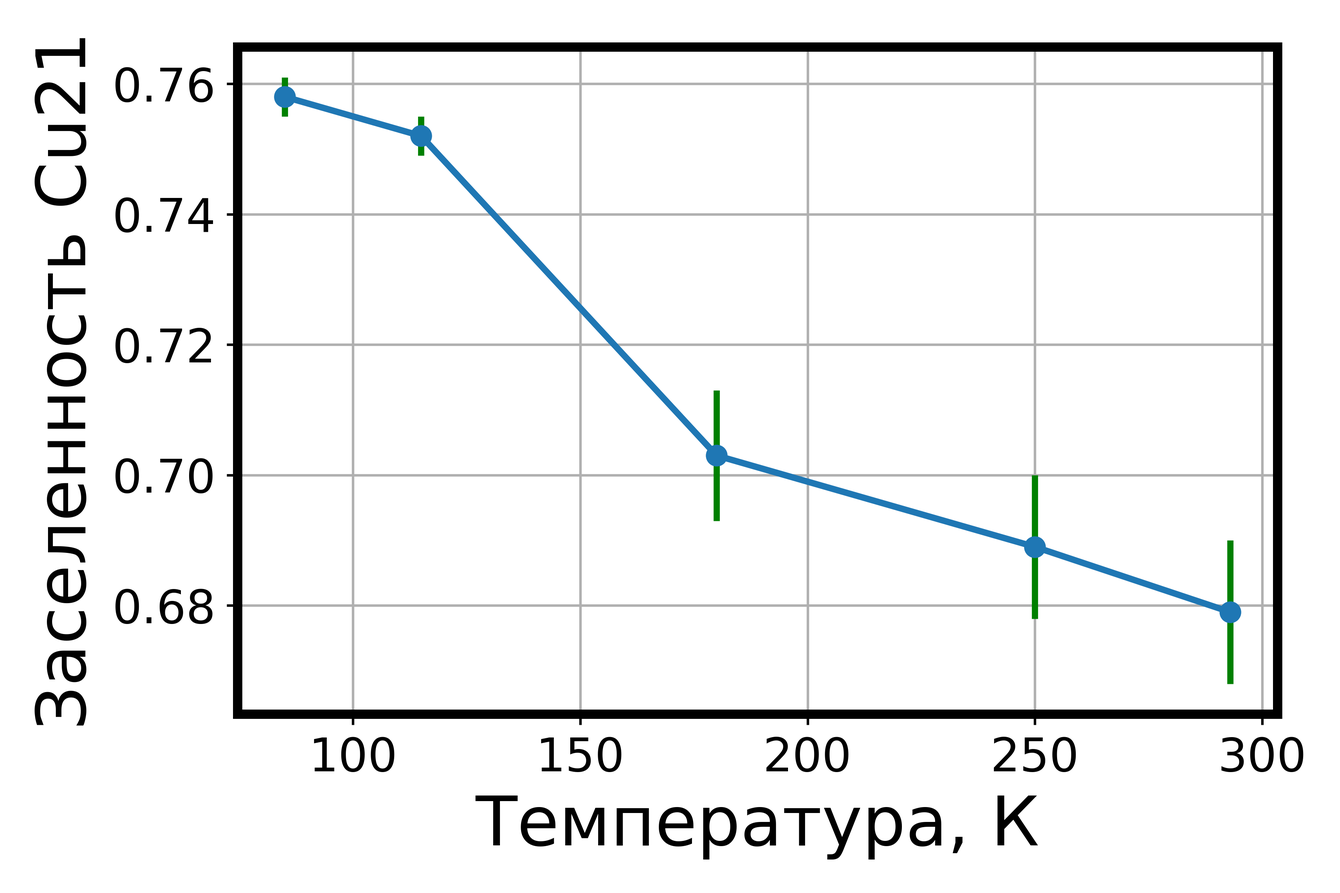
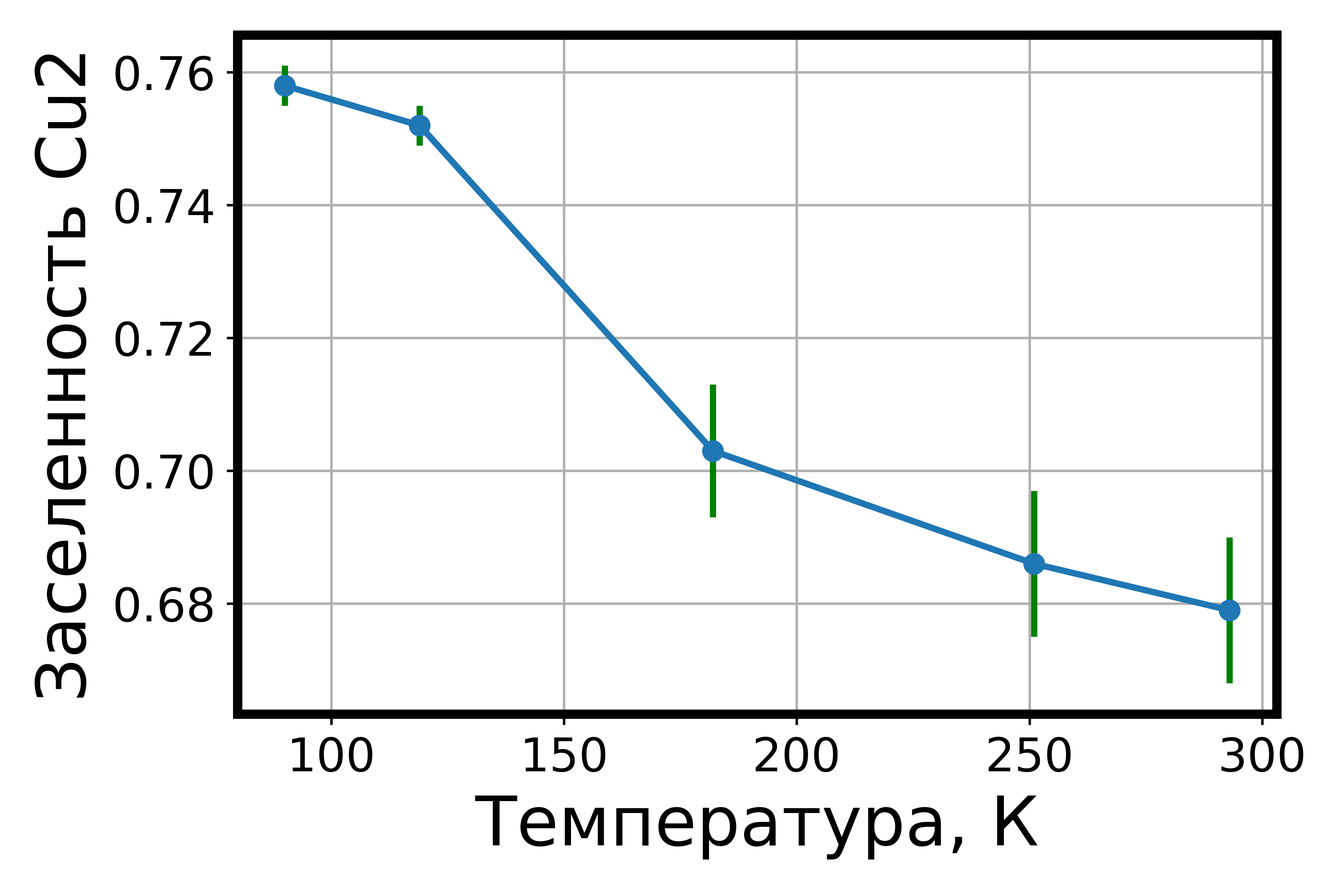
fix temperatures

diff --git a/Dissertation/part3.tex b/Dissertation/part3.tex
@@ -1,23 +1,23 @@
 \chapter{Особенности формирования лавесовского полиэдра на примере синтетического теннантита Cu\textsubscript{12}As\textsubscript{4}S\textsubscript{13}} \label{chapt3}
 
-В данной главе описаны результаты исследования монокристаллического образца синтетического теннантита Cu\textsubscript{12}As\textsubscript{4}S\textsubscript{13} методами монокристальной дифрактометрии в диапазоне температур от 85 до 293~К, просвечивающей электронной микроскопии монокристаллического образца в плоскости (011) и моделирования структур теннантита с разным расположением атомов в лавесовском полиэдре методом первопринципных расчётов.
+В данной главе описаны результаты исследования монокристаллического образца синтетического теннантита Cu\textsubscript{12}As\textsubscript{4}S\textsubscript{13} методами монокристальной дифрактометрии в диапазоне температур от 90 до 293~К, просвечивающей электронной микроскопии монокристаллического образца в плоскости (011) и моделирования структур теннантита с разным расположением атомов в лавесовском полиэдре методом первопринципных расчётов.
 
 
 
-\section{Рентгеноструктурный анализ синтетического теннантита Cu\textsubscript{12}As\textsubscript{4}S\textsubscript{13} в диапазоне температур от 85 до 293~К} \label{sect3_1}
+\section{Рентгеноструктурный анализ синтетического теннантита Cu\textsubscript{12}As\textsubscript{4}S\textsubscript{13} в диапазоне температур от 90 до 293~К} \label{sect3_1}
 
-Исследование монокристаллического образца  Cu\textsubscript{12}As\textsubscript{4}S\textsubscript{13} проведено при температурах 85, 115, 180, 250 и 293~К. Образец обладал сложной формой с линейными размерами от 100 до 300~мкм и являлся сколом от монокристалла.  Результаты дифракционных экспериментов при разных температурах представлены в таблице~\ref{xray1}. С понижением температуры объём элементарной ячейки ожидаемо уменьшается и возрастает значение R-фактора.
-Также с~понижением температуры возрастает заселенность позиции Cu2 (pис.~\ref{img:xray}a) и  наблюдается аномальное изменение значения коэффициента атомарного смещения для позиции S2 (pис.~\ref{img:xray}б), которое показывает наличие фазового перехода второго рода в диапазоне от 115 до 180 К.
+Исследование монокристаллического образца  Cu\textsubscript{12}As\textsubscript{4}S\textsubscript{13} проведено при температурах 90, 119, 182, 251, 293~К. Образец обладал сложной формой с линейными размерами от 100 до 300~мкм и являлся сколом от монокристалла.  Результаты дифракционных экспериментов при разных температурах представлены в таблице~\ref{xray1}. С понижением температуры объём элементарной ячейки ожидаемо уменьшается и возрастает значение R-фактора.
+Также с~понижением температуры возрастает заселенность позиции Cu2 (pис.~\ref{img:xray}a) и  наблюдается аномальное изменение значения коэффициента атомарного смещения для позиции S2 (pис.~\ref{img:xray}б), которое показывает наличие фазового перехода второго рода в диапазоне от 119 до 182 К.
 
 \begin{landscape}
 \begin{table} [htbp]
 \centering
-\caption{Сводная таблица данных рентгеноструктурных исследований для синтетического теннантита Cu\textsubscript{12}As\textsubscript{4}S\textsubscript{13} при температурах 85, 115, 180, 250 и 293~К}%
+\caption{Сводная таблица данных рентгеноструктурных исследований для синтетического теннантита Cu\textsubscript{12}As\textsubscript{4}S\textsubscript{13} при температурах 90, 119, 182, 251 и 293~К}%
 	\label{xray1}% label всегда желательно идти после caption
     \renewcommand{\arraystretch}{1.5}
 	\begin{tabular}{@{}@{\extracolsep{20pt}}llllll@{}}
  \toprule     %%% верхняя линейка
-T, K                       & 85          & 115         & 180         & 250         & 293         \\
+T, K                       & 90          & 119         & 182         & 251         & 293         \\
    \midrule
 a, $\angstrom$                       & 10.1439(2)  & 10.1446(2)  & 10.1463(2)  & 10.1523(2)  & 10.1572(2)  \\ \hline
 V, $\angstrom^3$                      & 1043.79(4)      & 1044.01(4)      & 1044.54(4)      & 1046.39(4)      & 1047.91(4)      \\ \hline
@@ -43,12 +43,12 @@ R\textsubscript{MEM}                     & 0.017/0.021 & 0.016/0.021 & 0.018/0.0
 \begin{landscape}
 \begin{table} [htbp]
 \centering
-\caption{Сводная таблица положения некоторых атомов и величины параметров их атомного смещения для синтетического теннантита Cu\textsubscript{12}As\textsubscript{4}S\textsubscript{13} при температурах 85, 115, 180, 250 и 293~К}%
+\caption{Сводная таблица положения некоторых атомов и величины параметров их атомного смещения для синтетического теннантита Cu\textsubscript{12}As\textsubscript{4}S\textsubscript{13} при температурах 90, 119, 182, 251 и 293~К}%
 	\label{xray2}% label всегда желательно идти после caption
     \renewcommand{\arraystretch}{1.5}
 	\begin{tabular}{@{}@{\extracolsep{20pt}}llllll@{}}
  \toprule     %%% верхняя линейка
-T, K             	          & 85 	         & 115  	       & 180    	     & 250    	     & 293         \\
+T, K             	          & 90 	         & 119  	       & 182    	     & 251    	     & 293         \\
    \midrule
 Заселенность, Cu(2) & 0.758(3)    & 0.752(3)    	 & 0.703(10)     & 0.686(11)    & 0.679(11)    \\
 x, Cu(2)         		 & 0.2173(3)   & 0.2176(3)   	 & 0.2177(4)   	& 0.2176(4)   & 0.2172(5) \\
@@ -68,7 +68,7 @@ U\textsubscript{eq},$ \times$10\textsuperscript{4}, S(2)    & 175(9)      	& 167
 \end{table}
 \end{landscape}
 
-Температурное исследование показывает изменение  заселенности в позиции меди Cu21 при понижении температуры (см. \ref{img:structure1}). На рисунке \ref{img:structure2} показано изменение  параметров атомного смещения и расстояния между позициями Cu21--S2.
+Температурное исследование показывает изменение  заселенности в позиции меди Cu2 при понижении температуры (см. \ref{img:structure1}). На рисунке \ref{img:structure2} показано изменение  параметров атомного смещения и расстояния между позициями Cu21--S2.
 На Рис. \ref{img:electro} представлена электронная плотность для расстояния 2 $\angstrom$ от центра ячейки для синтетического теннантита Cu\textsubscript{12}As\textsubscript{4}S\textsubscript{13}(а) (данные получены впервые) и синтетического тетраэдрита Cu\textsubscript{12}Sb\textsubscript{4}S\textsubscript{13}(б) (литературные данные), по которым видно сложное распределение атомов меди.
 
 % \begin{figure}[p!]
@@ -106,7 +106,7 @@ U\textsubscript{eq},$ \times$10\textsuperscript{4}, S(2)    & 175(9)      	& 167
     \includegraphics[width=0.9\linewidth]{structure_volume} \\ б)
   \end{minipage}
 
-      \caption[Зависимости изменения заселённости для позиции Cu21(а) и объёма кристаллической решетки (б) образца синтетического теннантита Cu\textsubscript{12}As\textsubscript{4}S\textsubscript{13} от температуры]{Зависимости изменения заселённости для позиции Cu21(а) и объёма кристаллической решетки (б) образца синтетического теннантита Cu\textsubscript{12}As\textsubscript{4}S\textsubscript{13} от температуры}
+      \caption[Зависимости изменения заселённости для позиции Cu2(а) и объёма кристаллической решетки (б) образца синтетического теннантита Cu\textsubscript{12}As\textsubscript{4}S\textsubscript{13} от температуры]{Зависимости изменения заселённости для позиции Cu2(а) и объёма кристаллической решетки (б) образца синтетического теннантита Cu\textsubscript{12}As\textsubscript{4}S\textsubscript{13} от температуры}
     \label{img:structure1}
 \end{figure}
 
@@ -191,7 +191,7 @@ U\textsubscript{eq},$ \times$10\textsuperscript{4}, S(2)    & 175(9)      	& 167
 Структуры разделены на две группы: первая --- в лавесовском полиэдре сдвинуты 6 атомов меди (структуры с 1 по 10), вторая --- сдвинуты 3 атома меди в лавесовском полиэдре (структуры с 10 по 19). Изображения рассчитанных структур представлены на рисунках \ref{img:laves1}, \ref{img:laves2}, \ref{img:laves3} и \ref{img:laves4}.
 На рисунке \ref{img:th} изображен график со значениями энергий элементарных ячеек для рассчитанных структур. Красной пунктирной линией обозначена энергия исходной структуры.
 Экспериментальные структуры, полученные после анализа рентгеноструктурных экспериментов при разных температурах, были рассчитаны с учетом ферромагнитного, антиферромагнитного, парамагнитного (ПМ) и диамагнитного состояний в структурах.
-Антиферромагнитное упорядочение в экспериментальной структуре при 85~К энергетически более выгодно, чем ферро- или пара- или диамагнитное состояния. При этом для 293~К ФМ, АФМ, ПМ конфигурации имеют одинаковую (до 4 знака) энергию, что указывает на их одинаковую выгодность и устойчивость.
+Антиферромагнитное упорядочение в экспериментальной структуре при 90~К энергетически более выгодно, чем ферро- или пара- или диамагнитное состояния. При этом для 293~К ФМ, АФМ, ПМ конфигурации имеют одинаковую (до 4 знака) энергию, что указывает на их одинаковую выгодность и устойчивость.
 
 \begin{figure}[ht!]
   \begin{minipage}[ht]{0.9\linewidth}\centering
@@ -398,7 +398,7 @@ S2                   & -0.82   & 	{\bf -0.98}            & 	-0.81  & 	-0.93     
     \label{img:mic3}
 \end{figure}
 
-На рисунке~\ref{img:xray} представлены: величина заселённости позиций атома Cu2 и изменение значения коэффициента атомарного смещения для позиции атома S2 в диапазоне температур от 85 до 293~К. Аномальное изменение значения коэффициента атомарного смещения для позиции атома S2, показывает наличие фазового перехода второго рода в диапазоне от 115 до 180 К.
+На рисунке~\ref{img:xray} представлены: величина заселённости позиций атома Cu2 и изменение значения коэффициента атомарного смещения для позиции атома S2 в диапазоне температур от 90 до 293~К. Аномальное изменение значения коэффициента атомарного смещения для позиции атома S2, показывает наличие фазового перехода второго рода в диапазоне от 119 до 182 К.
 
 \begin{figure}[ht]
   \begin{minipage}[ht]{0.5\linewidth}\centering
@@ -409,11 +409,11 @@ S2                   & -0.82   & 	{\bf -0.98}            & 	-0.81  & 	-0.93     
     \includegraphics[width=0.9\linewidth]{structure_Ueq} \\ б)
   \end{minipage}
 
-      \caption[Значение заселённости позиции атома Cu2 (а) и изменение значения коэффициента атомарного смещения для позиции атома S2 (б) в диапазоне температур от 85 до 293~К синтетического теннантита Cu\textsubscript{12}As\textsubscript{4}S\textsubscript{13}]{Значение заселённости позиции атома Cu2 (а) и изменение значения коэффициента атомарного смещения для позиции атома S2 (б) в диапазоне температур от 85 до 293~К синтетического теннантита Cu\textsubscript{12}As\textsubscript{4}S\textsubscript{13}}
+      \caption[Значение заселённости позиции атома Cu2 (а) и изменение значения коэффициента атомарного смещения для позиции атома S2 (б) в диапазоне температур от 90 до 293~К синтетического теннантита Cu\textsubscript{12}As\textsubscript{4}S\textsubscript{13}]{Значение заселённости позиции атома Cu2 (а) и изменение значения коэффициента атомарного смещения для позиции атома S2 (б) в диапазоне температур от 90 до 293~К синтетического теннантита Cu\textsubscript{12}As\textsubscript{4}S\textsubscript{13}}
     \label{img:xray}
 \end{figure}
 
-Рисунок \ref{img:xray2} представляет собой изображения распределений электронной плотности синтетического теннантита Cu\textsubscript{12}As\textsubscript{4}S\textsubscript{13} при температуре 293~(а) и 85~(б)~К в плоскости (011). По форме линий электронной плотности видно, что происходит полное разделение позиций Cu2 и Cu21. При комнатной температуре расстояние между Cu2 и Cu21 составляет 1.027(6)~$\angstrom$, при 85~К --- 1.108(5)~$\angstrom$. Расчёт энергий ФМ, АФМ, ПМ и диамагнитного состояний для экспериментально полученных структур показывает, что АФМ упорядочение в экспериментальной структуре при 85~К энергетически более выгодно, чем ферро- или пара- или диамагнитное состояния при этой же температуре. Для экспериментальной структуры при 293~К ФМ, АФМ, ПМ конфигурации имеют одинаковую (до 4 знака) энергию, что указывает на их одинаковую вероятность.
+Рисунок \ref{img:xray2} представляет собой изображения распределений электронной плотности синтетического теннантита Cu\textsubscript{12}As\textsubscript{4}S\textsubscript{13} при температуре 293~(а) и 90~(б)~К в плоскости (011). По форме линий электронной плотности видно, что происходит полное разделение позиций Cu2 и Cu21. При комнатной температуре расстояние между Cu2 и Cu21 составляет 1.027(6)~$\angstrom$, при 90~К --- 1.108(5)~$\angstrom$. Расчёт энергий ФМ, АФМ, ПМ и диамагнитного состояний для экспериментально полученных структур показывает, что АФМ упорядочение в экспериментальной структуре при 90~К энергетически более выгодно, чем ферро- или пара- или диамагнитное состояния при этой же температуре. Для экспериментальной структуры при 293~К ФМ, АФМ, ПМ конфигурации имеют одинаковую (до 4 знака) энергию, что указывает на их одинаковую вероятность.
 
 \begin{figure}[ht]
   \begin{minipage}[ht]{0.5\linewidth}\centering
@@ -424,7 +424,7 @@ S2                   & -0.82   & 	{\bf -0.98}            & 	-0.81  & 	-0.93     
     \includegraphics[width=0.9\linewidth]{Electron_density_85.png} \\ б)
   \end{minipage}
 
-      \caption[Распределение электронной плотности при температуре 293~(а) и 85~(б)~К в плоскости (011) синтетического теннантита Cu\textsubscript{12}As\textsubscript{4}S\textsubscript{13}]{Распределение электронной плотности при температуре 293~(а) и 85~(б)~К в плоскости (011) синтетического теннантита Cu\textsubscript{12}As\textsubscript{4}S\textsubscript{13}}
+      \caption[Распределение электронной плотности при температуре 293~(а) и 90~(б)~К в плоскости (011) синтетического теннантита Cu\textsubscript{12}As\textsubscript{4}S\textsubscript{13}]{Распределение электронной плотности при температуре 293~(а) и 90~(б)~К в плоскости (011) синтетического теннантита Cu\textsubscript{12}As\textsubscript{4}S\textsubscript{13}}
     \label{img:xray2}
 \end{figure}
 

diff --git a/common/characteristic.tex b/common/characteristic.tex
@@ -19,14 +19,14 @@
 Также преимущественно сульфосоли являются индикаторами золотосодержащих руд, потребность в которых высока.
 
 В данной работе представлено исследование влияния изовалентного замещения в соединениях Cu\textsubscript{12}As\textsubscript{4}S\textsubscript{13}, Cu\textsubscript{12}Sb\textsubscript{4}S\textsubscript{13}, Cu\textsubscript{3}AsSe\textsubscript{3} и Cu\textsubscript{3}SbSe\textsubscript{3} на транспортные и магнитные свойства этих соединений.
-Также в работе приведено рентгеноструктурное исследование соединения  Cu\textsubscript{12}As\textsubscript{4}S\textsubscript{13} в диапазоне температур от 85 до 293~К.  Помимо полученных фундаментальных результатов данная работа вносит вклад в развитие современного материаловедения и дополняет существующие представления о механизмах формирования физических свойств.
+Также в работе приведено рентгеноструктурное исследование соединения  Cu\textsubscript{12}As\textsubscript{4}S\textsubscript{13} в диапазоне температур от 90 до 293~К.  Помимо полученных фундаментальных результатов данная работа вносит вклад в развитие современного материаловедения и дополняет существующие представления о механизмах формирования физических свойств.
 
  \aim\ данного исследования является определение положения атомов меди в синтетическом теннантите
  Cu\textsubscript{12}As\textsubscript{4}S\textsubscript{13}, изучение на его примере особенностей формирования лавесовского полиэдра и влияния изовалентного замещения на магнитные и транспортные свойства соединений из группы тетраэдрита--теннантита на примере соединений  Cu\textsubscript{12}As\textsubscript{4}S\textsubscript{13}, Cu\textsubscript{12}Sb\textsubscript{4}S\textsubscript{13}, Cu\textsubscript{3}AsSe\textsubscript{3} и Cu\textsubscript{3}SbSe\textsubscript{3}.
 
 Для~достижения поставленной цели необходимо было решить следующие основные {\tasks}:
 \begin{enumerate}
-  \item Исследование положения атомов меди методами монокристальной рентгеновской дифрактометрии, высокоразрешающей просвечивающей  электронной микроскопии и комбинационного рассеяния света в монокристаллическом образце синтетического теннантита Cu\textsubscript{12}As\textsubscript{4}S\textsubscript{13} в диапазоне температур от 85 до 300~К.
+  \item Исследование положения атомов меди методами монокристальной рентгеновской дифрактометрии, высокоразрешающей просвечивающей  электронной микроскопии и комбинационного рассеяния света в монокристаллическом образце синтетического теннантита Cu\textsubscript{12}As\textsubscript{4}S\textsubscript{13} в диапазоне температур от 90 до 293~К.
   \item Измерение зависимостей теплоёмкости образцов Cu\textsubscript{12}As\textsubscript{4}S\textsubscript{13} и Cu\textsubscript{3}AsSe\textsubscript{3} и магнитной восприимчивости  образцов Cu\textsubscript{12}As\textsubscript{4}S\textsubscript{13}, Cu\textsubscript{12}Sb\textsubscript{4}S\textsubscript{13}, Cu\textsubscript{3}AsSe\textsubscript{3} и Cu\textsubscript{3}SbSe\textsubscript{3} в диапазонах температур от 2  до 350~К методами сканирующей дифференциальной калориметрии и магнитометрии, а также методом спектроскопии комбинационного рассеяния света при комнатной температуре.
 
 \end{enumerate}
@@ -35,7 +35,7 @@
 \begin{enumerate}
 \item Показано, что синтетический теннантит Сu\textsubscript{12}As\textsubscript{4}S\textsubscript{13} обладает неэквивалентным  окружением атомов меди в позициях Cu21 и Cu2, а в элементарной ячейке содержит 12 атомов меди.
 \item Неэквивалентные позиции атомов меди Cu21 и Cu2 в синтетическом теннантите способствуют появлению ассиметричных связей As(CuS\textsubscript{3})As, которые приводят к размягчению фононных мод в структуре синтетического теннантита Сu\textsubscript{12}As\textsubscript{4}S\textsubscript{13}.
-\item На основе данных аномального изменения значения коэффициента атомарного смещения для позиции S2 при понижении температуры, по скачкобразному изменению теплоёмкости при 124~K, полученной сканирующей дифференциальной калориметрией, по отклонению температурной зависимости намагниченности от закона Кюри--Вейсса при $\approx$~124~K и по сравнению энергий кристаллической решётки для структур при 85~K и 293~К, полученных методом первопринципных расчётов, в синтетическом теннантите Сu\textsubscript{12}As\textsubscript{4}S\textsubscript{13} при температуре 124~К обнаружен фазовый переход второго рода.
+\item На основе данных аномального изменения значения коэффициента атомарного смещения для позиции S2 при понижении температуры, по скачкобразному изменению теплоёмкости при 124~K, полученной сканирующей дифференциальной калориметрией, по отклонению температурной зависимости намагниченности от закона Кюри--Вейсса при $\approx$~124~K и по сравнению энергий кристаллической решётки для структур при 90~K и 293~К, полученных методом первопринципных расчётов, в синтетическом теннантите Сu\textsubscript{12}As\textsubscript{4}S\textsubscript{13} при температуре 124~К обнаружен фазовый переход второго рода.
 \item В соединениях из группы тетраэдритов-теннантитов экспериментально выявлены низкоэнергетические фононные моды в диапазоне от 5 до 40~мэВ, наличие которых обусловлено  ассимметричными связями (As,Sb)(Cu(S, Se)\textsubscript{3})(As,Sb).
 \item Показано, что изовалентное замещение Cu--(As,Sb)--S приводит к изменению локального окружения атомов меди и к понижению температуры Нееля с $\approx$124 К до $\approx$84 К.
 

diff --git a/Dissertation/conclusion.tex b/Dissertation/conclusion.tex
@@ -7,21 +7,18 @@
 %% Поэтому имеет смысл сделать эту часть общей и загрузить из одного файла в автореферат и в диссертацию:
 
 
-В рамках диссертационной работы проведены исследования влияния изовалентного замещения в соединениях Cu\textsubscript{12}As\textsubscript{4}S\textsubscript{13}, Cu\textsubscript{12}Sb\textsubscript{4}S\textsubscript{13}, Cu\textsubscript{3}AsSe\textsubscript{3} и Cu\textsubscript{3}SbSe\textsubscript{3} на их транспортные и магнитиные свойства. 
-В работе проведено исследование  синтетического теннантита Cu\textsubscript{12}As\textsubscript{4}S\textsubscript{13} в диапазоне температур от 85 до 300~К методами монокристальной рентгеновской дифрактометрии, высокоразрещающей микроскопии и комбинационного рассеяния света в монокристаллическом образце.
+В рамках диссертационной работы проведены исследования влияния изовалентного замещения в соединениях Cu\textsubscript{12}As\textsubscript{4}S\textsubscript{13}, Cu\textsubscript{12}Sb\textsubscript{4}S\textsubscript{13}, Cu\textsubscript{3}AsSe\textsubscript{3} и Cu\textsubscript{3}SbSe\textsubscript{3} на их транспортные и магнитиные свойства.
+В работе проведено исследование  синтетического теннантита Cu\textsubscript{12}As\textsubscript{4}S\textsubscript{13} в диапазоне температур от 90 до 293~К методами монокристальной рентгеновской дифрактометрии, высокоразрещающей микроскопии и комбинационного рассеяния света в монокристаллическом образце.
 
 Основные результаты работы заключаются в следующем:
 % \input{common/concl}
 \begin{enumerate}
 \item Показано, что синтетический теннантит Сu\textsubscript{12}As\textsubscript{4}S\textsubscript{13} обладает неэквивалентным  окружением атомов меди в позициях Cu21 и Cu2, а в элементарной ячейке содержит 12 атомов меди.
 \item Неэквивалентные позиции атомов меди Cu21 и Cu2 в синтетическом теннантите способствуют появлению ассиметричных связей As(CuS\textsubscript{3})As, которые приводят к размягчению фононных мод в структуре синтетического теннантита Сu\textsubscript{12}As\textsubscript{4}S\textsubscript{13}.
-\item На основе данных аномального изменения значения коэффициента атомарного смещения для позиции S2 при понижении температуры, по скачкобразному изменению теплоёмкости при 124~K, полученной сканирующей дифференциальной калориметрией, по отклонению температурной зависимости намагниченности от закона Кюри--Вейсса при $\approx$~124~K и по сравнению энергий кристаллической решётки для структур при 85~K и 293~К, полученных методом первопринципных расчётов, в синтетическом теннантите Сu\textsubscript{12}As\textsubscript{4}S\textsubscript{13} при температуре 124~К обнаружен фазовый переход второго рода.
+\item На основе данных аномального изменения значения коэффициента атомарного смещения для позиции S2 при понижении температуры, по скачкобразному изменению теплоёмкости при 124~K, полученной сканирующей дифференциальной калориметрией, по отклонению температурной зависимости намагниченности от закона Кюри--Вейсса при $\approx$~124~K и по сравнению энергий кристаллической решётки для структур при 90~K и 293~К, полученных методом первопринципных расчётов, в синтетическом теннантите Сu\textsubscript{12}As\textsubscript{4}S\textsubscript{13} при температуре 124~К обнаружен фазовый переход второго рода.
 \item В соединениях из группы тетраэдритов-теннантитов экспериментально выявлены низкоэнергетические фононные моды в диапазоне от 5 до 40~мэВ, наличие которых обусловлено  ассимметричными связями (As,Sb)(Cu(S, Se)\textsubscript{3})(As,Sb).
 \item Показано, что изовалентное замещение Cu--(As,Sb)--S приводит к изменению локального окружения атомов меди и к понижению температуры Нееля с $\approx$124 К до $\approx$84 К.
 
 \end{enumerate}
 
 Результаты работы и литературные данные показывают, что локальное окружение меди влияет на физические свойства (в частности на магнитные и транспортные). Помимо полученных фундаментальных результатов данная работа, вносит вклад в развитие современного материаловедения и дополняет существующие представления о механизмах формирования физических свойств сложных сульфосолей.
-
-
-

diff --git a/Dissertation/part2.tex b/Dissertation/part2.tex
@@ -53,7 +53,7 @@ Cu\textsubscript{3}SbSe\textsubscript{3} & Pnma & 7.9865 & 10.6138 &6.837& \mult
 \end{tabular}
 \end{table}
 
-Образец, полученный методом направленной перекристаллизации в~двухзонной печи по~методу Стокбаргера"--~Бриджмена, был подвергнут прецизионному дифракционному исследованию на монокристальном дифрактометре Xcalibur с 2d детектором CCD~EOS~S2 (Rigaku Oxford Diffraction). Образцы для измерений имели сферическую форму диаметром от 200 до 300~мкм, изготовленные специальным образом из скола от монокристаллического образца, или скола от пластинки образца толщиной 0.3~мм. Исследование проводилось при температурах 85, 115, 180, 250 и 293~К\cite{Dudka2016}. Температура определялась сенсором, который находился на сопле охлаждающей системы Cobra Plus. Хладагентом служил азот. Расстояние между соплом с хладагентом и образцом составляло 7~мм.
+Образец, полученный методом направленной перекристаллизации в~двухзонной печи по~методу Стокбаргера"--~Бриджмена, был подвергнут прецизионному дифракционному исследованию на монокристальном дифрактометре Xcalibur с 2d детектором CCD~EOS~S2 (Rigaku Oxford Diffraction). Образцы для измерений имели сферическую форму диаметром от 200 до 300~мкм, изготовленные специальным образом из скола от монокристаллического образца, или скола от пластинки образца толщиной 0.3~мм. Исследование проводилось при температурах 90, 119, 182, 251, 293~К\cite{Dudka2016}. Температура определялась сенсором, который находился на сопле охлаждающей системы Cobra Plus. Хладагентом служил азот. Расстояние между соплом с хладагентом и образцом составляло 7~мм.
 
 Детектор CCD~EOS~S2 и гониометр были предварительно откалиброваны экспериментально\cite{Dudka2010} с использованием монокристалла Ca\textsubscript{3}TaGa\textsubscript{3}Si\textsubscript{2}O\textsubscript{14}\cite{Dudka2016_b}. Полученная калибровка повысила точность получаемых данных на 10~\%.
 

diff --git a/Dissertation/part1.tex b/Dissertation/part1.tex
@@ -226,7 +226,7 @@ PPMS в диапазоне температур от 75 до 100~К. В рабо
 
 Для~достижения поставленной цели необходимо было решить следующие основные задачи:
 \begin{enumerate}
-  \item Исследовать положения атомов меди методами монокристальной рентгеновской дифрактометрии, высокоразрешающей просвечивающей  электронной микроскопии и комбинационного рассеяния света в монокристаллическом образце синтетического теннантита Cu\textsubscript{12}As\textsubscript{4}S\textsubscript{13} в диапазоне температур от 85 до 300~К.
+  \item Исследовать положения атомов меди методами монокристальной рентгеновской дифрактометрии, высокоразрешающей просвечивающей  электронной микроскопии и комбинационного рассеяния света в монокристаллическом образце синтетического теннантита Cu\textsubscript{12}As\textsubscript{4}S\textsubscript{13} в диапазоне температур от 90 до 293~К.
   \item Изучить измерение зависимостей теплоёмкости образцов Cu\textsubscript{12}As\textsubscript{4}S\textsubscript{13} и Cu\textsubscript{3}AsSe\textsubscript{3} и магнитной восприимчивости  образцов Cu\textsubscript{12}As\textsubscript{4}S\textsubscript{13}, Cu\textsubscript{12}Sb\textsubscript{4}S\textsubscript{13}, Cu\textsubscript{3}AsSe\textsubscript{3} и Cu\textsubscript{3}SbSe\textsubscript{3} в диапазонах температур от 2  до 350~К методами сканирующей дифференциальной калориметрии и магнитометрии, а также методом спектроскопии комбинационного рассеяния света при комнатной температуре.
 
 \end{enumerate}

diff --git a/Dissertation/part3tab.tex b/Dissertation/part3tab.tex
@@ -6,7 +6,7 @@
     \renewcommand{\arraystretch}{1.5}
 	\begin{tabular}{@{}@{\extracolsep{20pt}}llllll@{}} 
  \toprule     %%% верхняя линейка
-T, K                       & 85          & 115         & 180         & 250         & 293         \\ 
+T, K                       & 90          & 119         & 182         & 251         & 293         \\ 
    \midrule  
 a, $\angstrom $                      & 10.1439(2)  & 10.1446(2)  & 10.1463(2)  & 10.1523(2)  & 10.1572(2)  \\ \hline
 V, $\angstrom^3    $                  & 1043.8      & 1044.0      & 1044.5      & 1046.4      & 1047.9      \\ \hline
